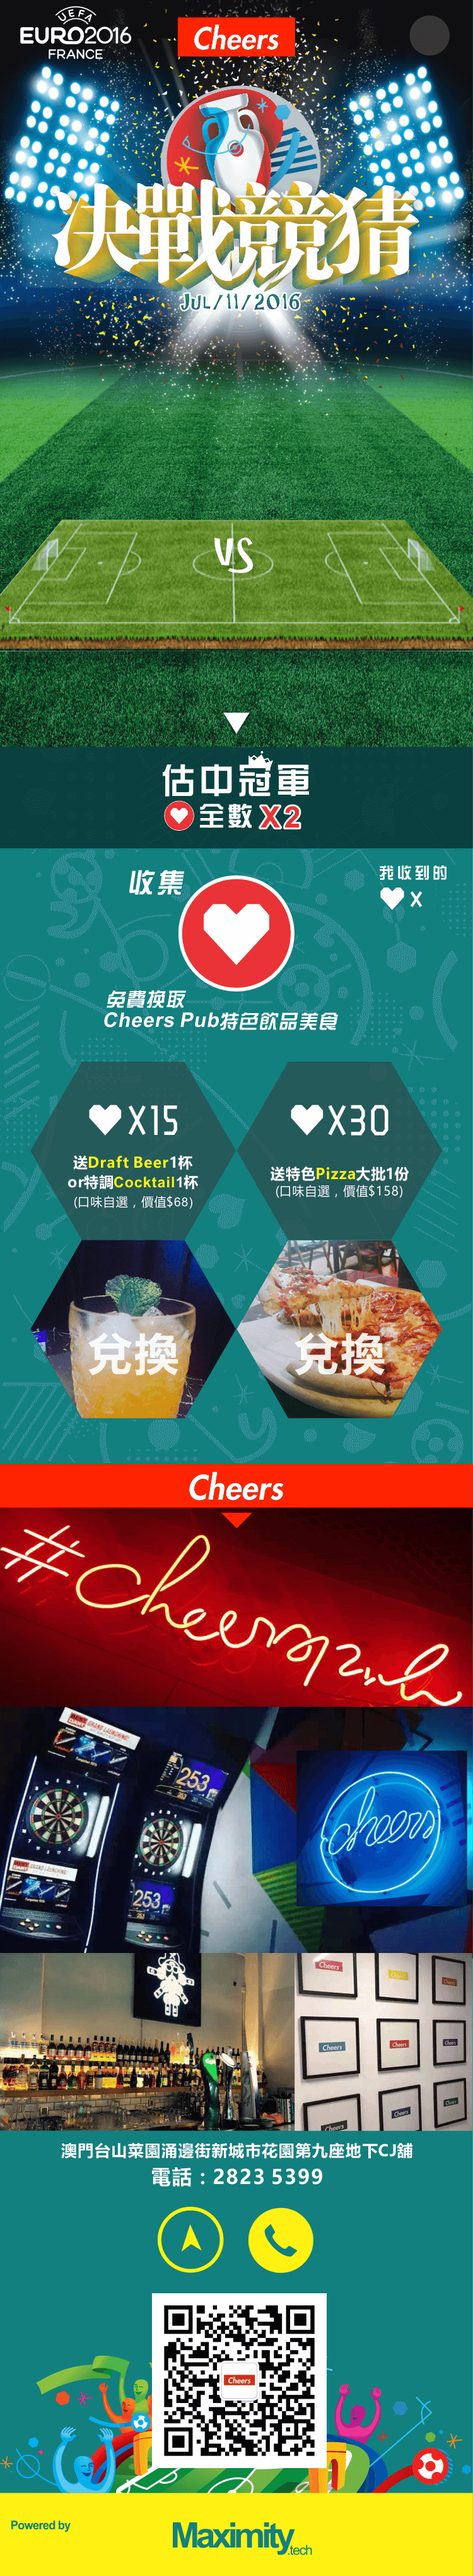
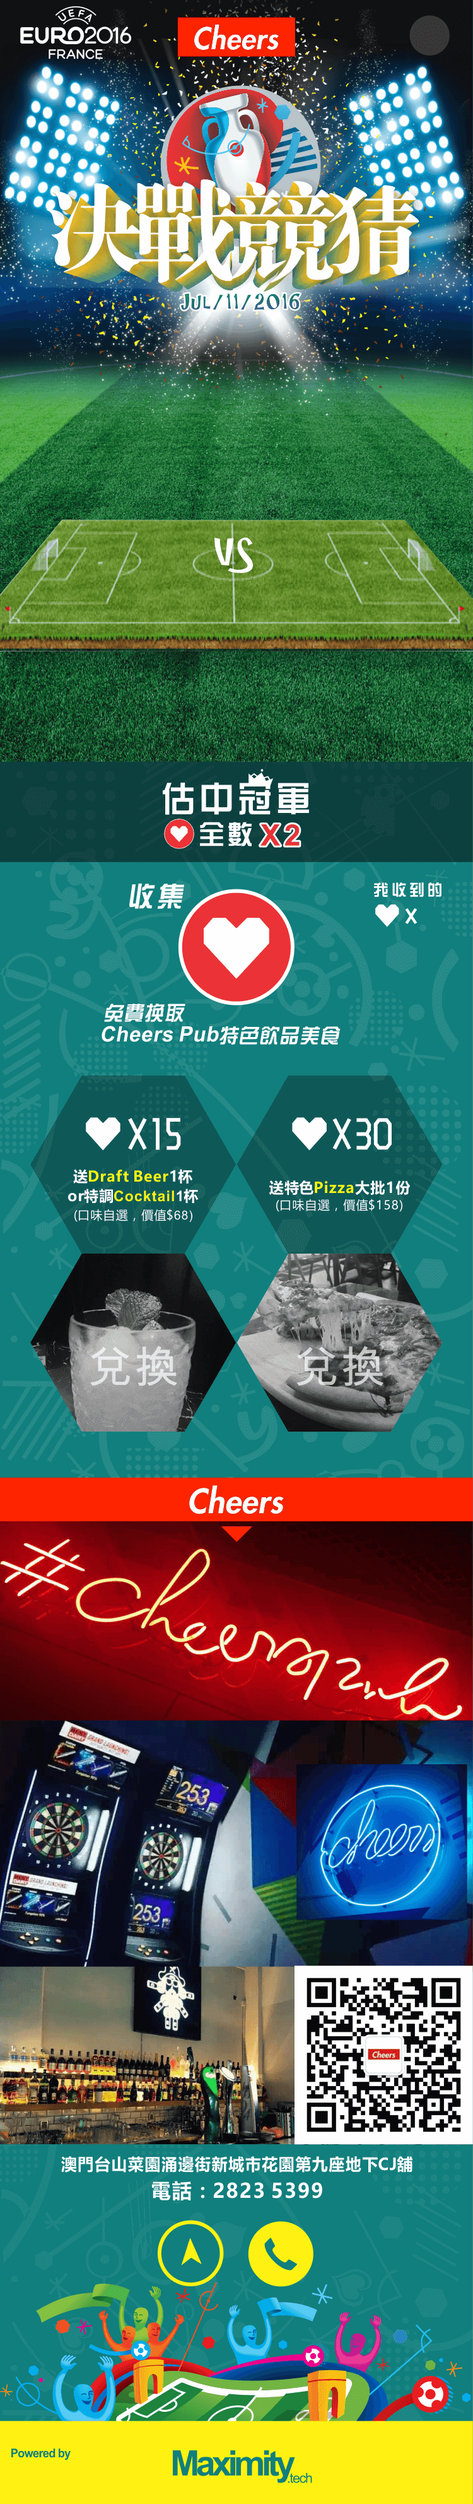
change photo and css

diff --git a/assets/controllers/easywash.js b/assets/controllers/easywash.js
@@ -209,7 +209,7 @@ function($scope, $http, $timeout, $interval, $location, $anchorScroll){
             });
             wx.showOptionMenu();
             wx.onMenuShareTimeline({
-                title: '2016歐國杯 | Cheers Pub免費送你特色雞尾酒xPizza', // 分享标题
+                title: '2016歐國盃 | Cheers Pub免費送你特色雞尾酒 & Pizza', // 分享标题
                 link: 'https://open.weixin.qq.com/connect/oauth2/authorize?appid='+appid+'&redirect_uri=http%3A%2F%2F'+host+'%2F'+adString+'%3FsharedBy%3D'+$scope.userId+'%26ad%3D'+adString+'%26pg%3D1&response_type=code&scope='+snsapi+'&state=123',
                 imgUrl: 'http://'+host+'/images/easywash/wecast-share.png', // 分享图标
                 success: function() {
@@ -226,7 +226,7 @@ function($scope, $http, $timeout, $interval, $location, $anchorScroll){
             });
             wx.onMenuShareAppMessage({
 
-              title: '2016歐國杯 | Cheers Pub免費送你特色雞尾酒xPizza', // 分享标题
+              title: '2016歐國盃 | Cheers Pub免費送你特色雞尾酒 & Pizza', // 分享标题
 
               desc: '估波仔! 三五知己! 玩盡歐國! Beer x Cocktail x Pizze任你揀!!', // 分享描述
 
@@ -340,7 +340,7 @@ function($scope, $http, $timeout, $interval, $location, $anchorScroll){
   }
 
   $scope.showPrize1 = function(){
-    if($scope.credit>=prize1Credit){
+    if($scope.credit>=prizeCredit.prize1){
       return true;
     }else{
       return false;
@@ -355,7 +355,7 @@ function($scope, $http, $timeout, $interval, $location, $anchorScroll){
     }
   }
   $scope.showPrize2 = function(){
-    if($scope.credit>=38){
+    if($scope.credit>=prizeCredit.prize2){
       return true;
     }else{
       return false;
@@ -486,7 +486,16 @@ function($scope, $http, $timeout, $interval, $location, $anchorScroll){
       $("#normal-errModal").modal('show');
     });
   },
-  $scope.showRedeemVote = function (vote) {
+  $scope.showRedeemVoteBtn = function () {
+    var now = new Date();
+    var exp = new Date('2016-07-20T16:00:00');
+    if ($scope.gameResult == $scope.userVote && $scope.isRedeemVote != true && now.getTime() <= exp.getTime()) {
+      return true;
+    } else {
+      return false;
+    }
+  },
+  $scope.showRedeemVote = function () {
     if ($scope.gameResult == $scope.userVote && $scope.isRedeemVote != true) {
       var now = new Date();
       var exp = new Date('2016-07-20T16:00:00');

diff --git a/assets/styles/easywash.css b/assets/styles/easywash.css
@@ -998,7 +998,7 @@ i:nth-child(100) b {
 }
 
 .spinner {
-  margin: 0px auto 0;
+  margin: 10px auto 0;
   width: 150px;
   text-align: center;
 }
@@ -1063,13 +1063,13 @@ i:nth-child(100) b {
 
 #main-2 img {
   animation-name: choose;
-  animation-duration: 1.5s;
+  animation-duration: 1.8s;
   animation-iteration-count: infinite;
   animation-direction: alternate;
 }
 
 @keyframes choose {
-    from {opacity: 0;}
+    from {opacity: 0.1;}
     to {opacity: 0.9;}
 }
 
@@ -1133,6 +1133,18 @@ i:nth-child(100) b {
 @-webkit-keyframes movein {
     from   {opacity: 1; margin-left: 70%;}
     to     {opacity: 1; margin-left: 53%;}
+}
+
+#main-arrow img {
+    animation-name: choose;
+    animation-duration: 1.8s;
+    animation-iteration-count: infinite;
+    animation-direction: alternate;
+}
+
+@keyframes arrow {
+    from {opacity: 0.1;}
+    to {opacity: 0.9;}
 }
 
 /*
